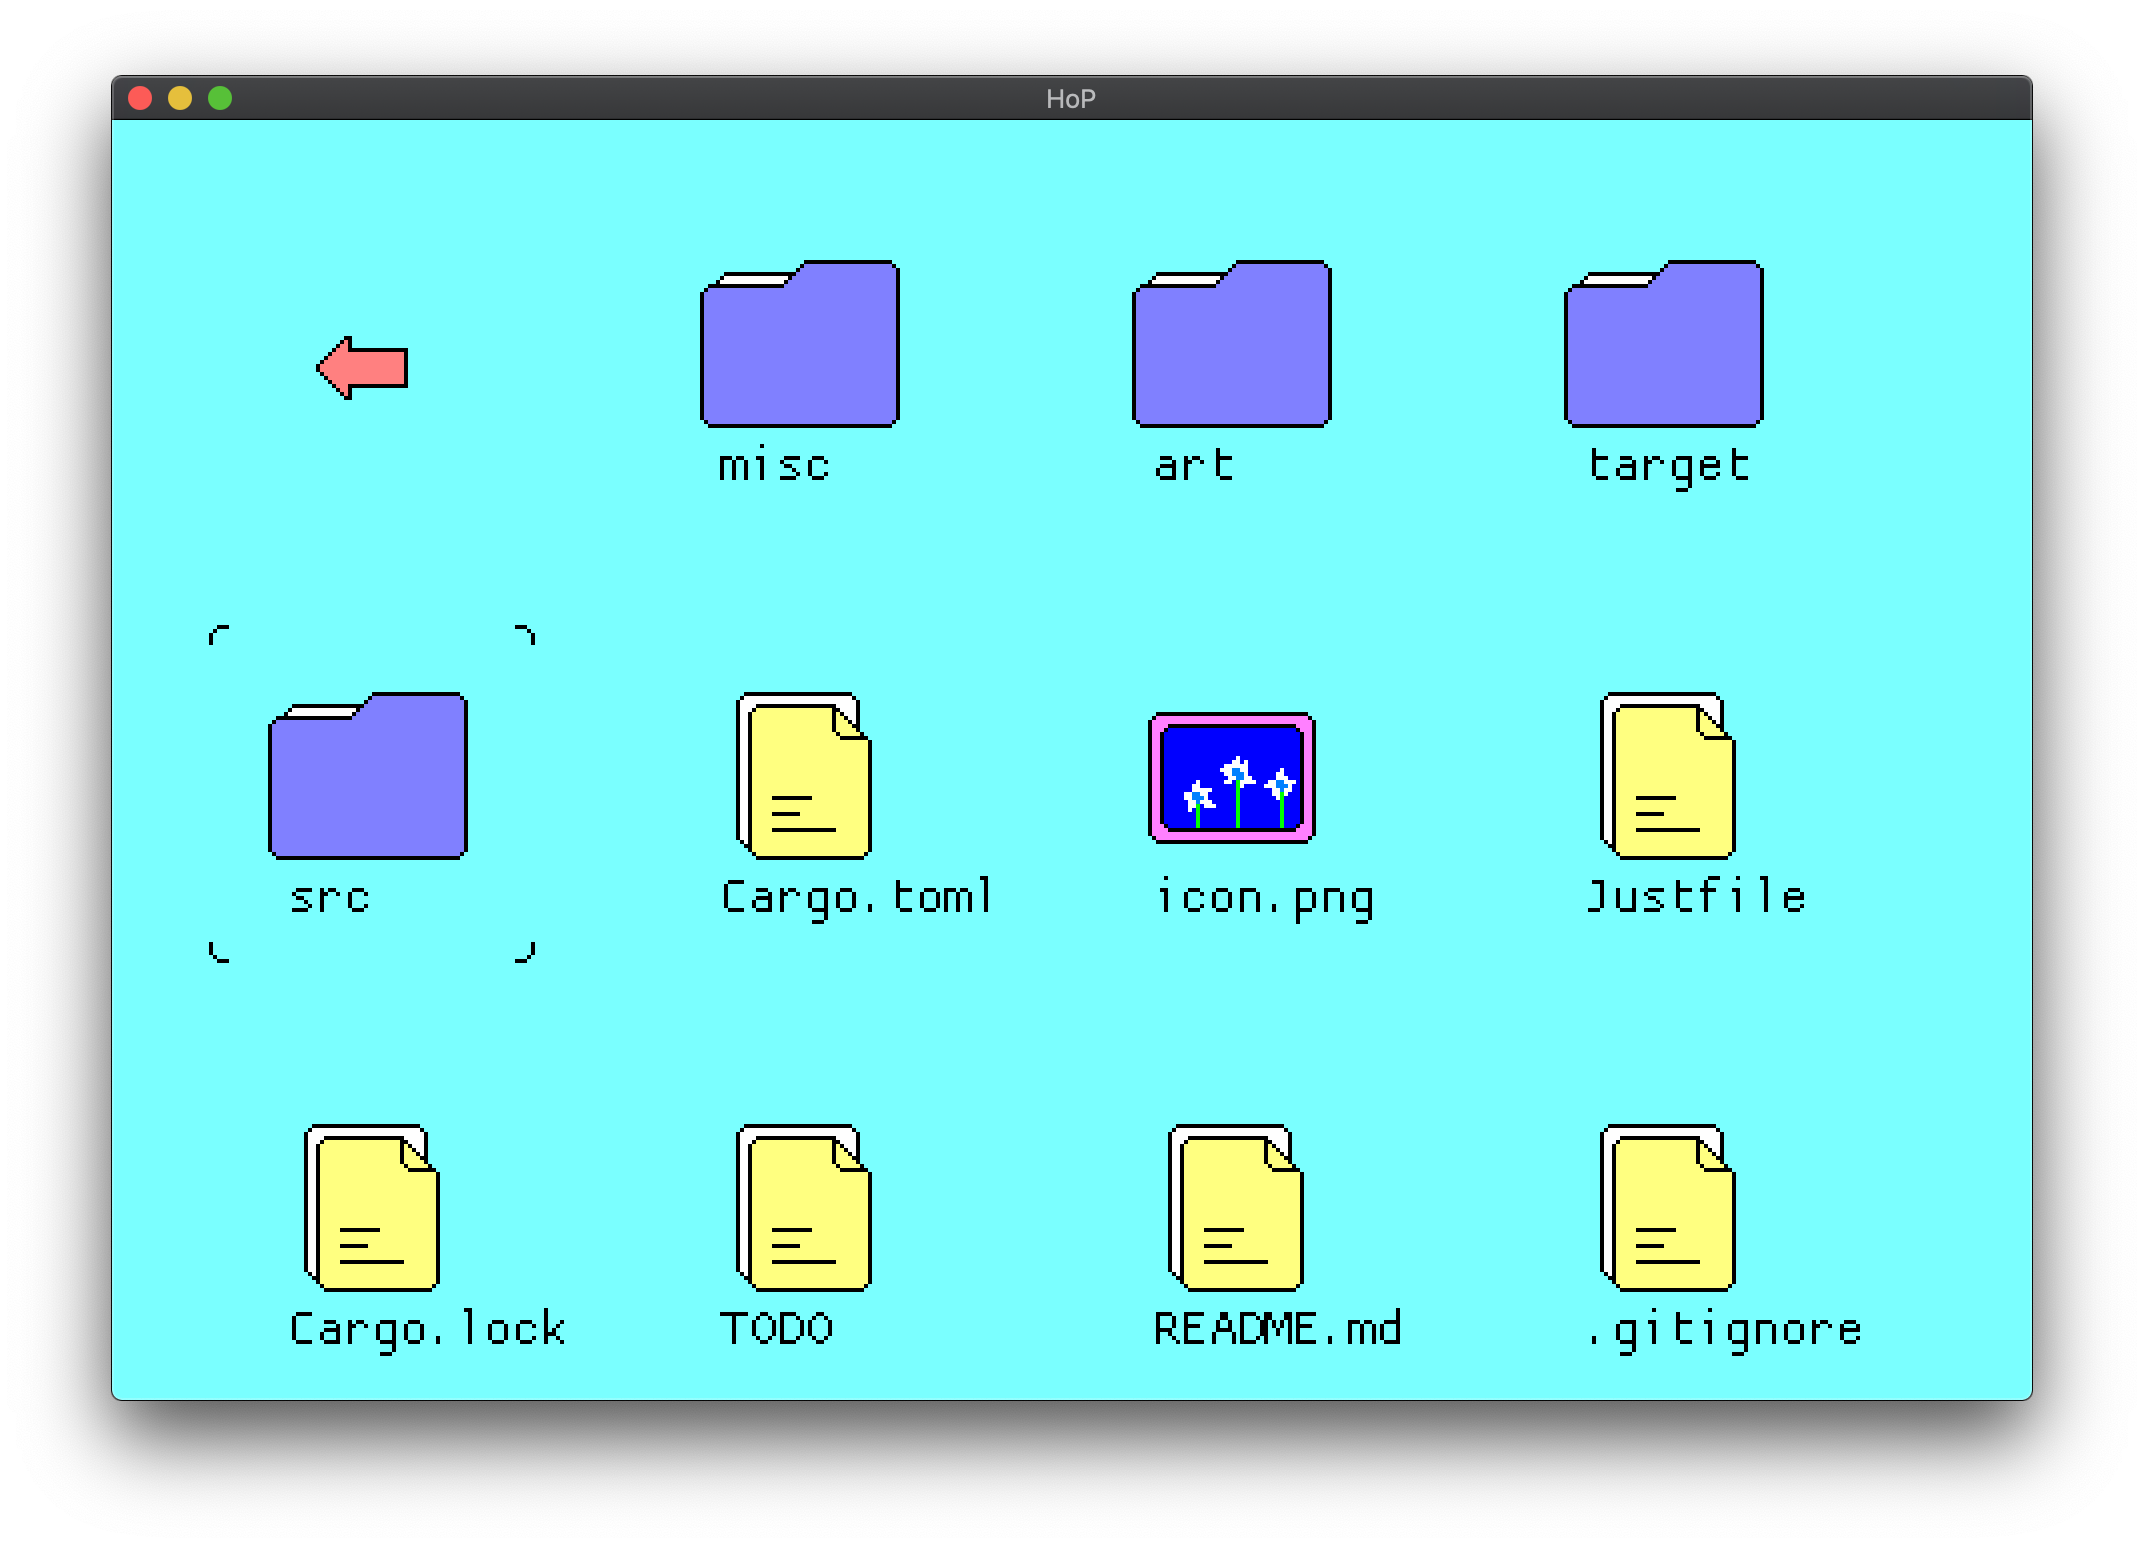
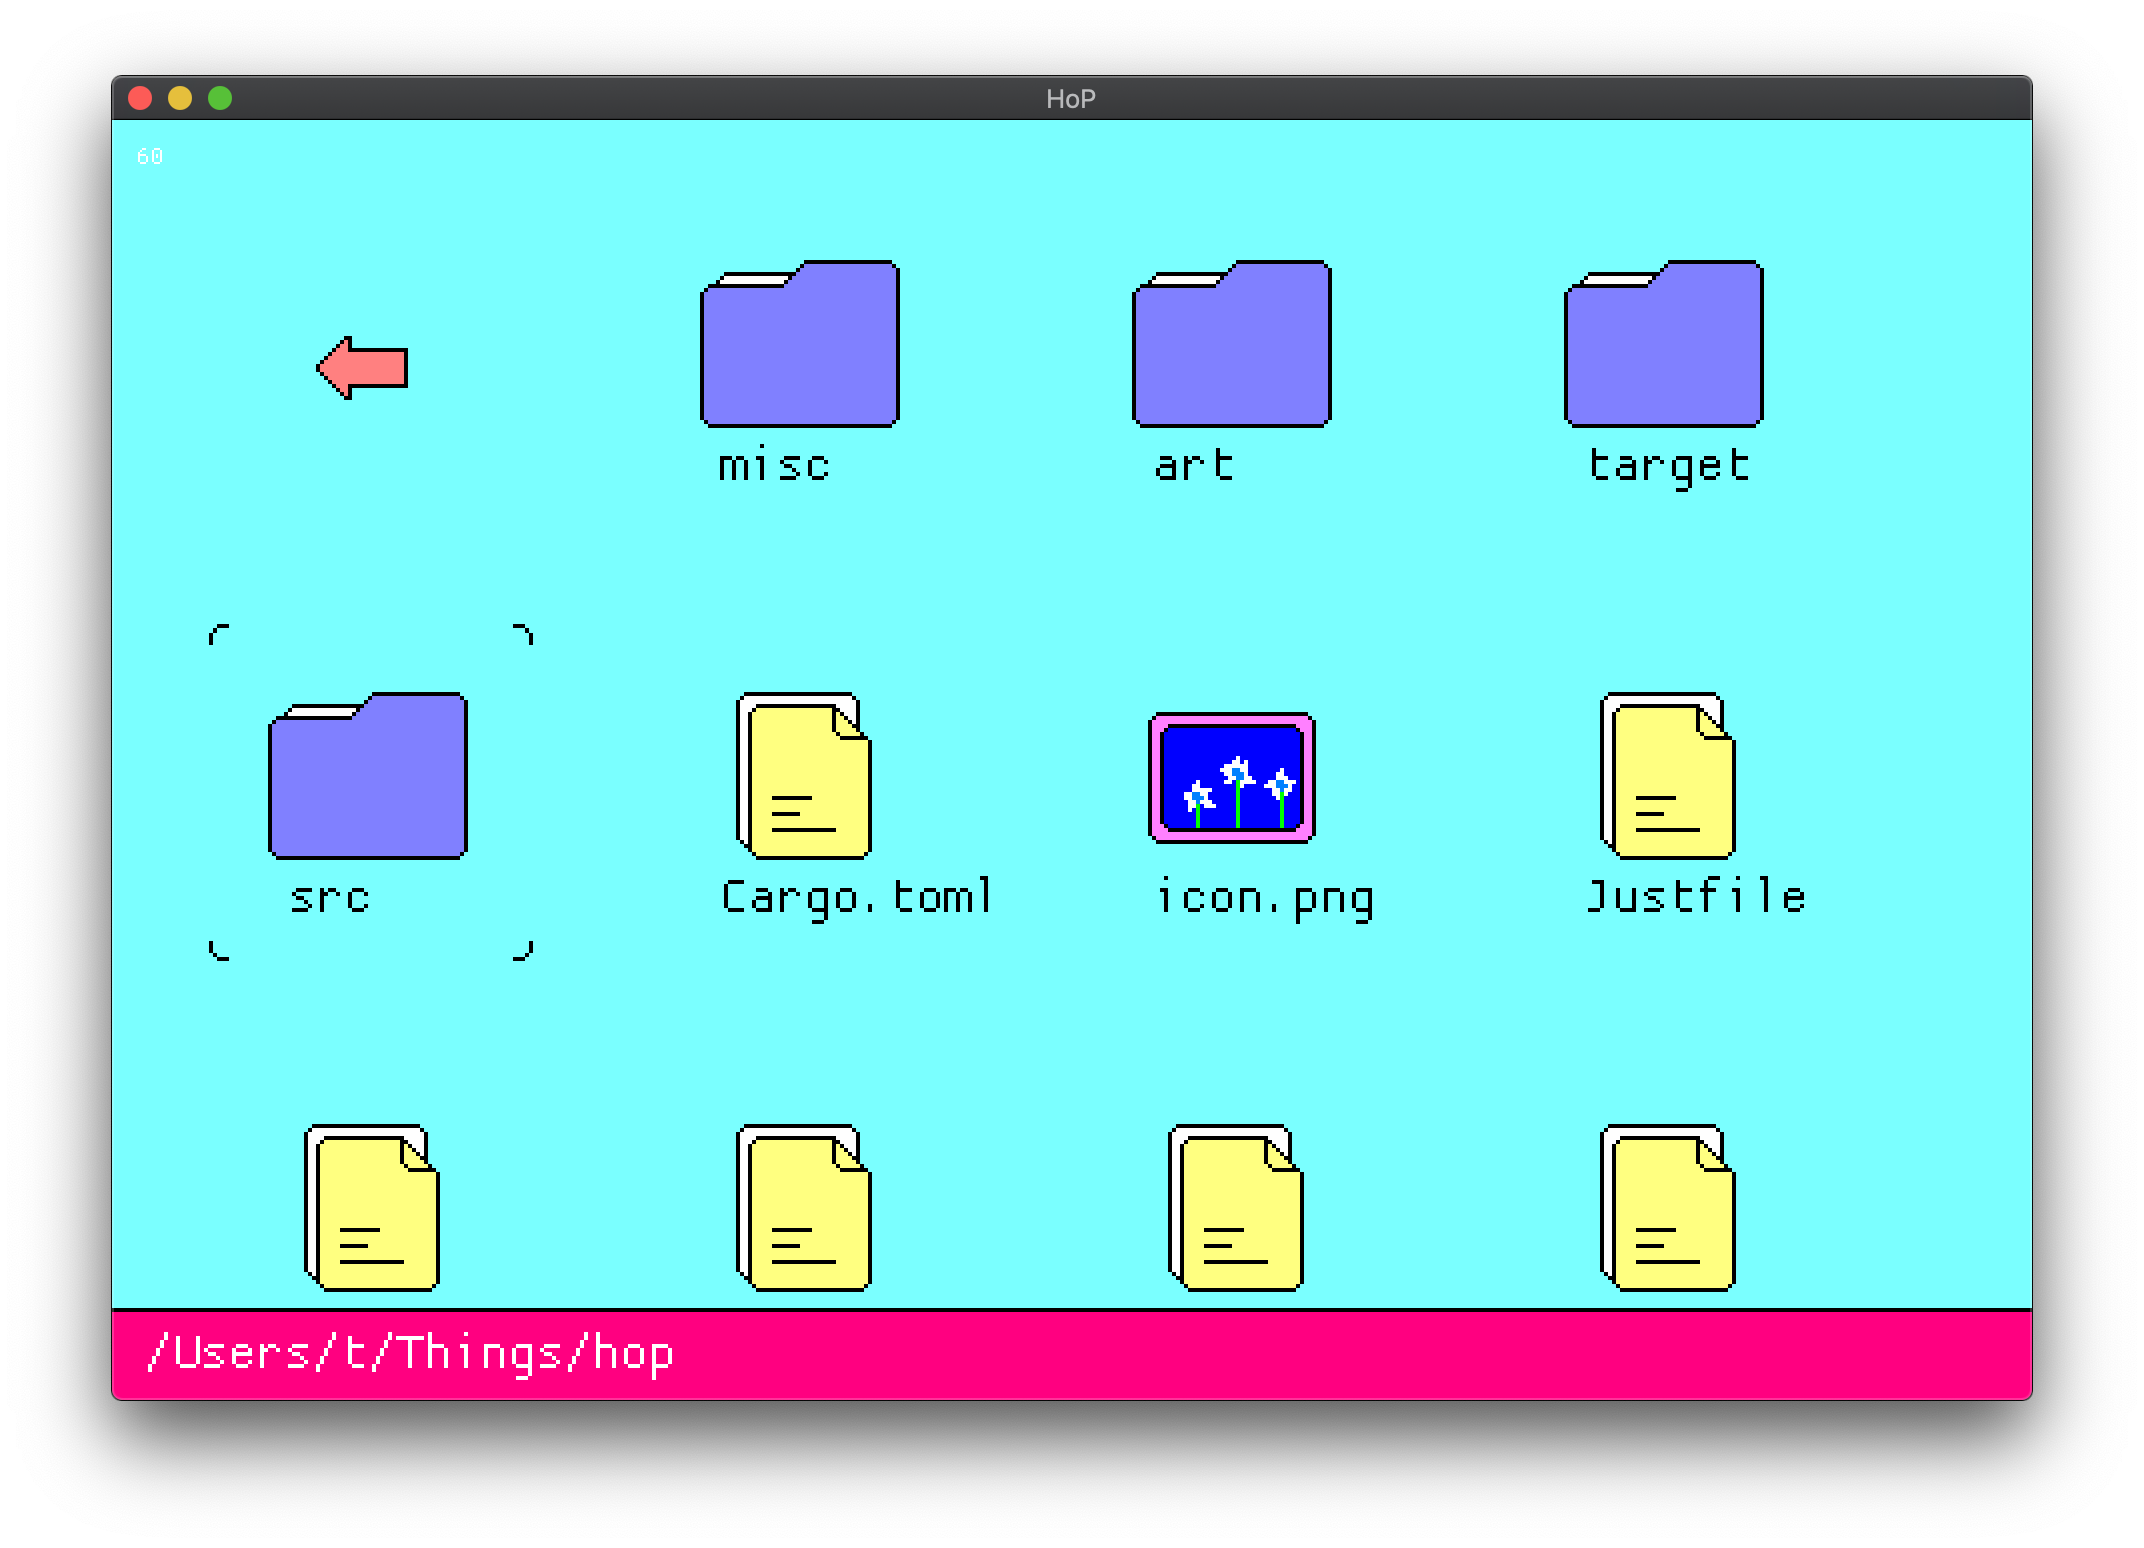
add browser dynamic resize

Changed region(s): [[0.0312, 0.8372, 0.9688, 0.9302]]

diff --git a/src/browser/mod.rs b/src/browser/mod.rs
@@ -37,6 +37,8 @@ enum TexFlag {
 pub struct Conf {
 	ignores: FilterList,
 	scale: f32,
+	size: u32,
+	margin: u32,
 }
 
 struct Item {
@@ -65,7 +67,9 @@ impl Default for Conf {
 	fn default() -> Self {
 		return Self {
 			ignores: FilterList::new(&[".DS_Store", ".git"]),
-			scale: 2.0,
+			margin: 32,
+			scale: 1.5,
+			size: 112,
 		};
 	}
 }
@@ -361,8 +365,10 @@ impl Act for Browser {
 
 		let (w, h) = window::size().into();
 		let (w, h) = (w as f32 / self.conf.scale, h as f32 / self.conf.scale);
-		let cols = 4;
-		let size = 108;
+		let margin = self.conf.margin;
+		let size = self.conf.size;
+		let cols = (w as u32 - margin * 2) / size;
+		let rmargin = (w as u32 - cols * size) / 2;
 
 		// all
 		g2d::scale(vec2!(self.conf.scale));
@@ -375,19 +381,18 @@ impl Act for Browser {
 		g2d::pop();
 
 		g2d::push();
-		g2d::translate(vec2!(32));
+		g2d::translate(vec2!(rmargin, 32));
 
 		// back
 		g2d::push();
-// 		g2d::translate(vec2!(size));
 		g2d::draw(&self.textures[&TexFlag::Back], rect!(0, 0, 1, 1));
 		g2d::pop();
 
 		// items
 		for (i, item) in self.listings.iter().enumerate() {
 
-			let x = (i + 1) % cols;
-			let y = (i + 1) / cols;
+			let x = (i + 1) % cols as usize;
+			let y = (i + 1) / cols as usize;
 
 			g2d::push();
 			g2d::translate(vec2!(x, y) * size as f32);
@@ -412,11 +417,11 @@ impl Act for Browser {
 
 		if let Selection::Item(i) = self.selection {
 
-			let x = (i + 1) % cols;
-			let y = (i + 1) / cols;
+			let x = (i + 1) % cols as usize;
+			let y = (i + 1) / cols as usize;
 
 			g2d::push();
-			g2d::translate(vec2!(x, y) * size as f32 - vec2!(22));
+			g2d::translate(vec2!(x, y) * self.conf.size as f32 - vec2!(22));
 			g2d::scale(vec2!((app::time() * 6.0).sin() * 0.02 + 1.0));
 			g2d::draw(&self.textures[&TexFlag::Selection], rect!(0, 0, 1, 1));
 			g2d::pop();
@@ -439,7 +444,7 @@ impl Act for Browser {
 			if let Some(item) = self.selected() {
 
 				g2d::push();
-				g2d::color(color!(0, 0, 0, 0.7));
+				g2d::color(color!(0, 0, 0, 0.8));
 				g2d::rect(vec2!(w, h));
 				g2d::pop();
 

diff --git a/src/browser/view.rs b/src/browser/view.rs
@@ -1,0 +1,24 @@
+// wengwengweng
+
+pub struct Conf {
+	scale: f32,
+	size: u32,
+	margin: u32,
+}
+
+#[derive(Hash, Clone, Copy, PartialEq, Eq)]
+enum TexFlag {
+	Folder,
+	Selection,
+	Text,
+	Image,
+	Back,
+}
+
+pub struct View {
+
+	textures: HashMap<TexFlag, gfx::Texture>,
+	previewed_images: HashMap<PathBuf, gfx::Texture>,
+
+}
+
